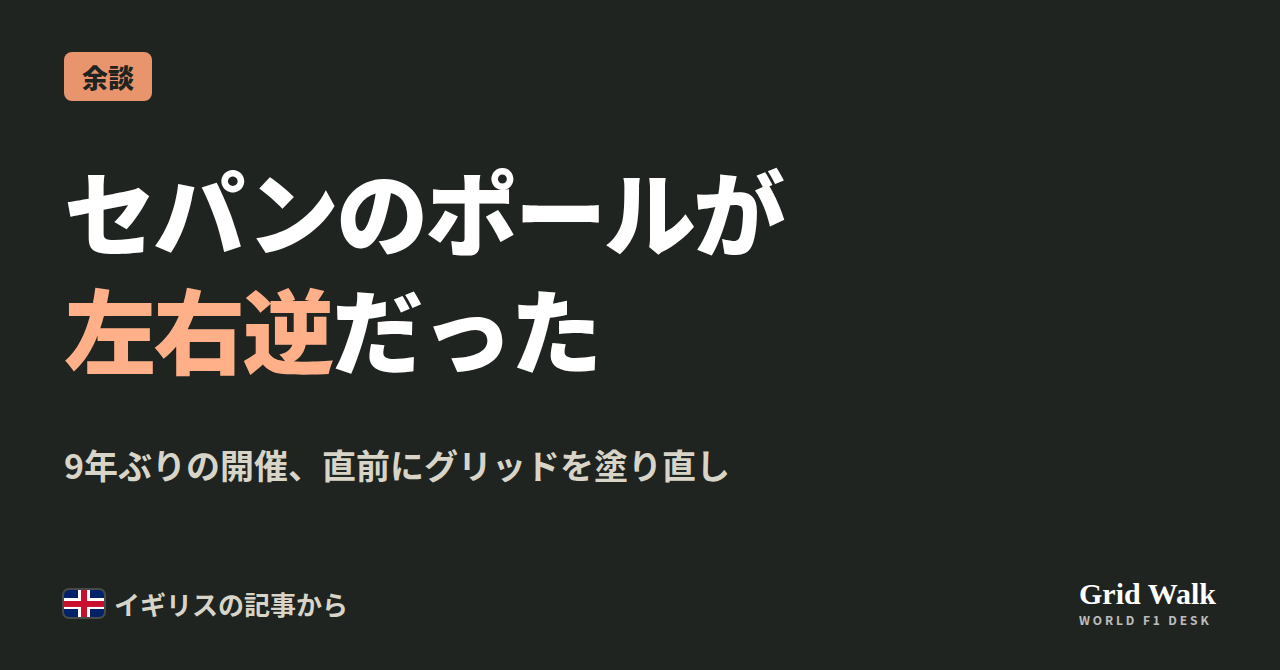
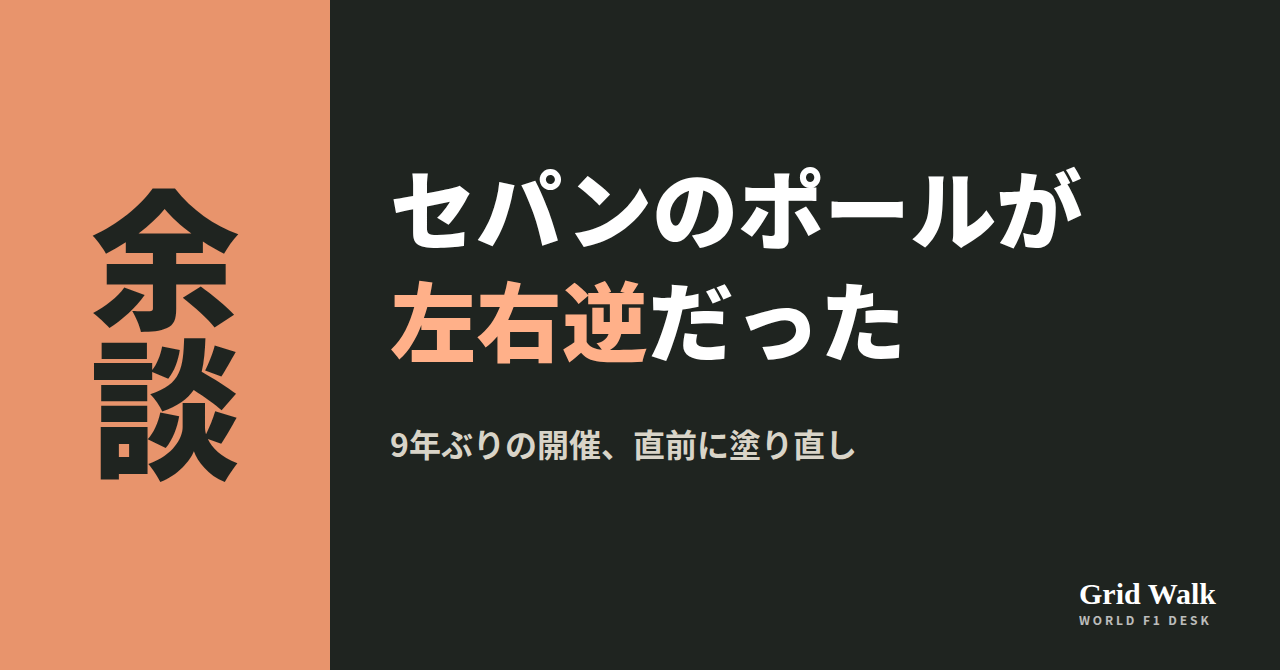
note-only aside: new title and 余談 header image (owner's choice)
Claude-Session: https://claude.ai/code/session_01AbprJDCivhn4G6aSdDSkTK

diff --git a/daily/2026-10-02/note_sepang-grid-20261002_コピー用.html b/daily/2026-10-02/note_sepang-grid-20261002_コピー用.html
@@ -1,5 +1,5 @@
 <!doctype html><html lang="ja"><head><meta charset="utf-8"><meta name="viewport" content="width=device-width,initial-scale=1">
-<title>note用原稿：【Grid Walk 余談】9年ぶりのセパン、ポールが左右逆に</title>
+<title>note用原稿：ポールが逆側に？セパンで塗り直し</title>
 <style>
 :root{color-scheme:light}
 body{margin:0;background:#F3EFE6;color:#1F2420;font-family:-apple-system,'Hiragino Sans','Noto Sans JP',sans-serif;line-height:1.8}
@@ -30,7 +30,7 @@ body{margin:0;background:#F3EFE6;color:#1F2420;font-family:-apple-system,'Hiragi
 <li>公開設定でハッシュタグを貼り付けて公開</li>
 <li>公開したらURLをClaudeに教えてください（X紹介文を仕上げます）</li></ol>
 <p style="margin:0">※ 貼り付けたあと見出しが普通の文字になっていたら、その行を選んで「大見出し」にしてください。URLだけの行は、noteがリンクカードにしてくれます。</p></div>
-<div class="box"><div class="lbl">タイトル</div><div id="title">【Grid Walk 余談】9年ぶりのセパン、ポールが左右逆に</div></div>
+<div class="box"><div class="lbl">タイトル</div><div id="title">ポールが逆側に？セパンで塗り直し</div></div>
 <div class="box"><div class="lbl">ハッシュタグ</div><div id="tags">#F1 #F1jp #セパン #マレーシア #グリッド #ポールポジション #FIA #F1余談 #フォーミュラ1 #モータースポーツ #F1ニュース #海外F1 #F1好きと繋がりたい #F1GridWalk #WORLDMEDIALENS</div></div>
 <div class="box"><div class="lbl">本文</div><div id="body"><p>9年ぶりにF1が戻ってきたセパンで、ちょっとした「事件」がありました。スタートのグリッドで、ポールポジションの位置が左右逆に描かれていたのです。英The Raceが伝えました。</p><h2>気づいたのは、チームの人たち</h2><p>水曜日、チームの人たちがコースを歩いて下見する「トラックウォーク」をしていたときのこと。グリッドの並びが、昔と違うことに気づきました。</p><p>これまでのマレーシアGPでは、ポールはコースの右側。ところが今回は、左側に描かれていました。同じ水曜に行われたFIAの公式な検査でも、これが間違いだとすぐに確認されました。</p><h2>原因は「書類」</h2><p>The Raceによると、原因は書類を準備する途中のどこかで起きた事務的なミスとみられています。サーキットには、ポールを左右どちらに置くかが前もって伝えられます。マレーシア側は「左に」と言われ、そのとおりに描いていた、というわけです。</p><h2>直し方は「1つずらすだけ」</h2><p>塗り直しは木曜に行われました。実は、ポールを左に置いたとき、マレーシア側は先頭にグリッドの枠を1つ足していました。そのおかげで直しは簡単で、元のポールの白線を塗りつぶし、その後ろの番号を全部書き直すだけ。水曜に「2番グリッド」だった場所が、そのままポールポジションになりました。</p><p>これで、もう一つの困りごとも消えました。左に描かれたポールは、もともとのスタートラインより前に出ていて、そのままだとタイム計測の仕組みに差し支えるところでした。ただ、右に戻したポールも、FIAの規則で決まっている最低1メートルの距離にわずかに足りません。そこで木曜、スタートラインを少し前に描き直しています。</p><p>ばたばたはありましたが、セパンは木曜のサーキット検査を大きな問題なく通過しました。2017年以来のF1のレースが、いよいよ始まります。</p><h2>トラックウォークの大切さ</h2><p>トラックウォークは、ドライバーやエンジニアが縁石や路面を確かめる場として知られていますが、今回はグリッドの描き間違いまで見つけました。9年ぶりのコースだからこそ、「昔と同じかどうか」を自分の目で確かめる意味があったのかもしれません。</p><h2>セパンの「分からない」は、まだある</h2><p>グリッドの描き間違いは、木曜のうちに片づきました。でも9年ぶりのセパンには、まだ答えの出ていない「分からない」が残っています。今のF1マシンは、どのチームもこのコースを一度も走ったことがありません。路面とタイヤ、電気の使い方、天気と暑さ。</p><p>その一つひとつを、F1 Grid Walkの深掘り企画「DEEP GRID」でほどいています。最初に結論を5つにまとめ、そのあと「理由と背景」「データと記録」へと、読み進めるほど深くなる記事です。</p><p><strong>続きは F1 Grid Walk で。DEEP GRID #01「なぜセパンは現代F1にとって『未知』なのか」</strong></p><p><a href="https://f1gridwalk.github.io/deep/sepang-unknown/">https://f1gridwalk.github.io/deep/sepang-unknown/</a></p><p><strong>9年ぶりのセパン。ほかにも「昔と違う」ところ、見つかると思いますか？</strong></p><p>━━━━━━━━━━</p><p><strong>F1 Grid Walk では、世界のF1ニュースを毎日日本語でまとめています。</strong></p><p>海外の記事の要約を、毎日載せています。</p><p>ほかの海外記事も読みたい方は、F1 Grid Walkへ。</p><p><a href="https://f1gridwalk.github.io/">https://f1gridwalk.github.io/</a></p><p>━━━━━━━━━━</p><p><a href="https://www.the-race.com/formula-1/last-minute-fix-made-to-f1s-sepang-starting-grid/">出典：The Race（イギリス）</a></p></div></div>
 </div>
